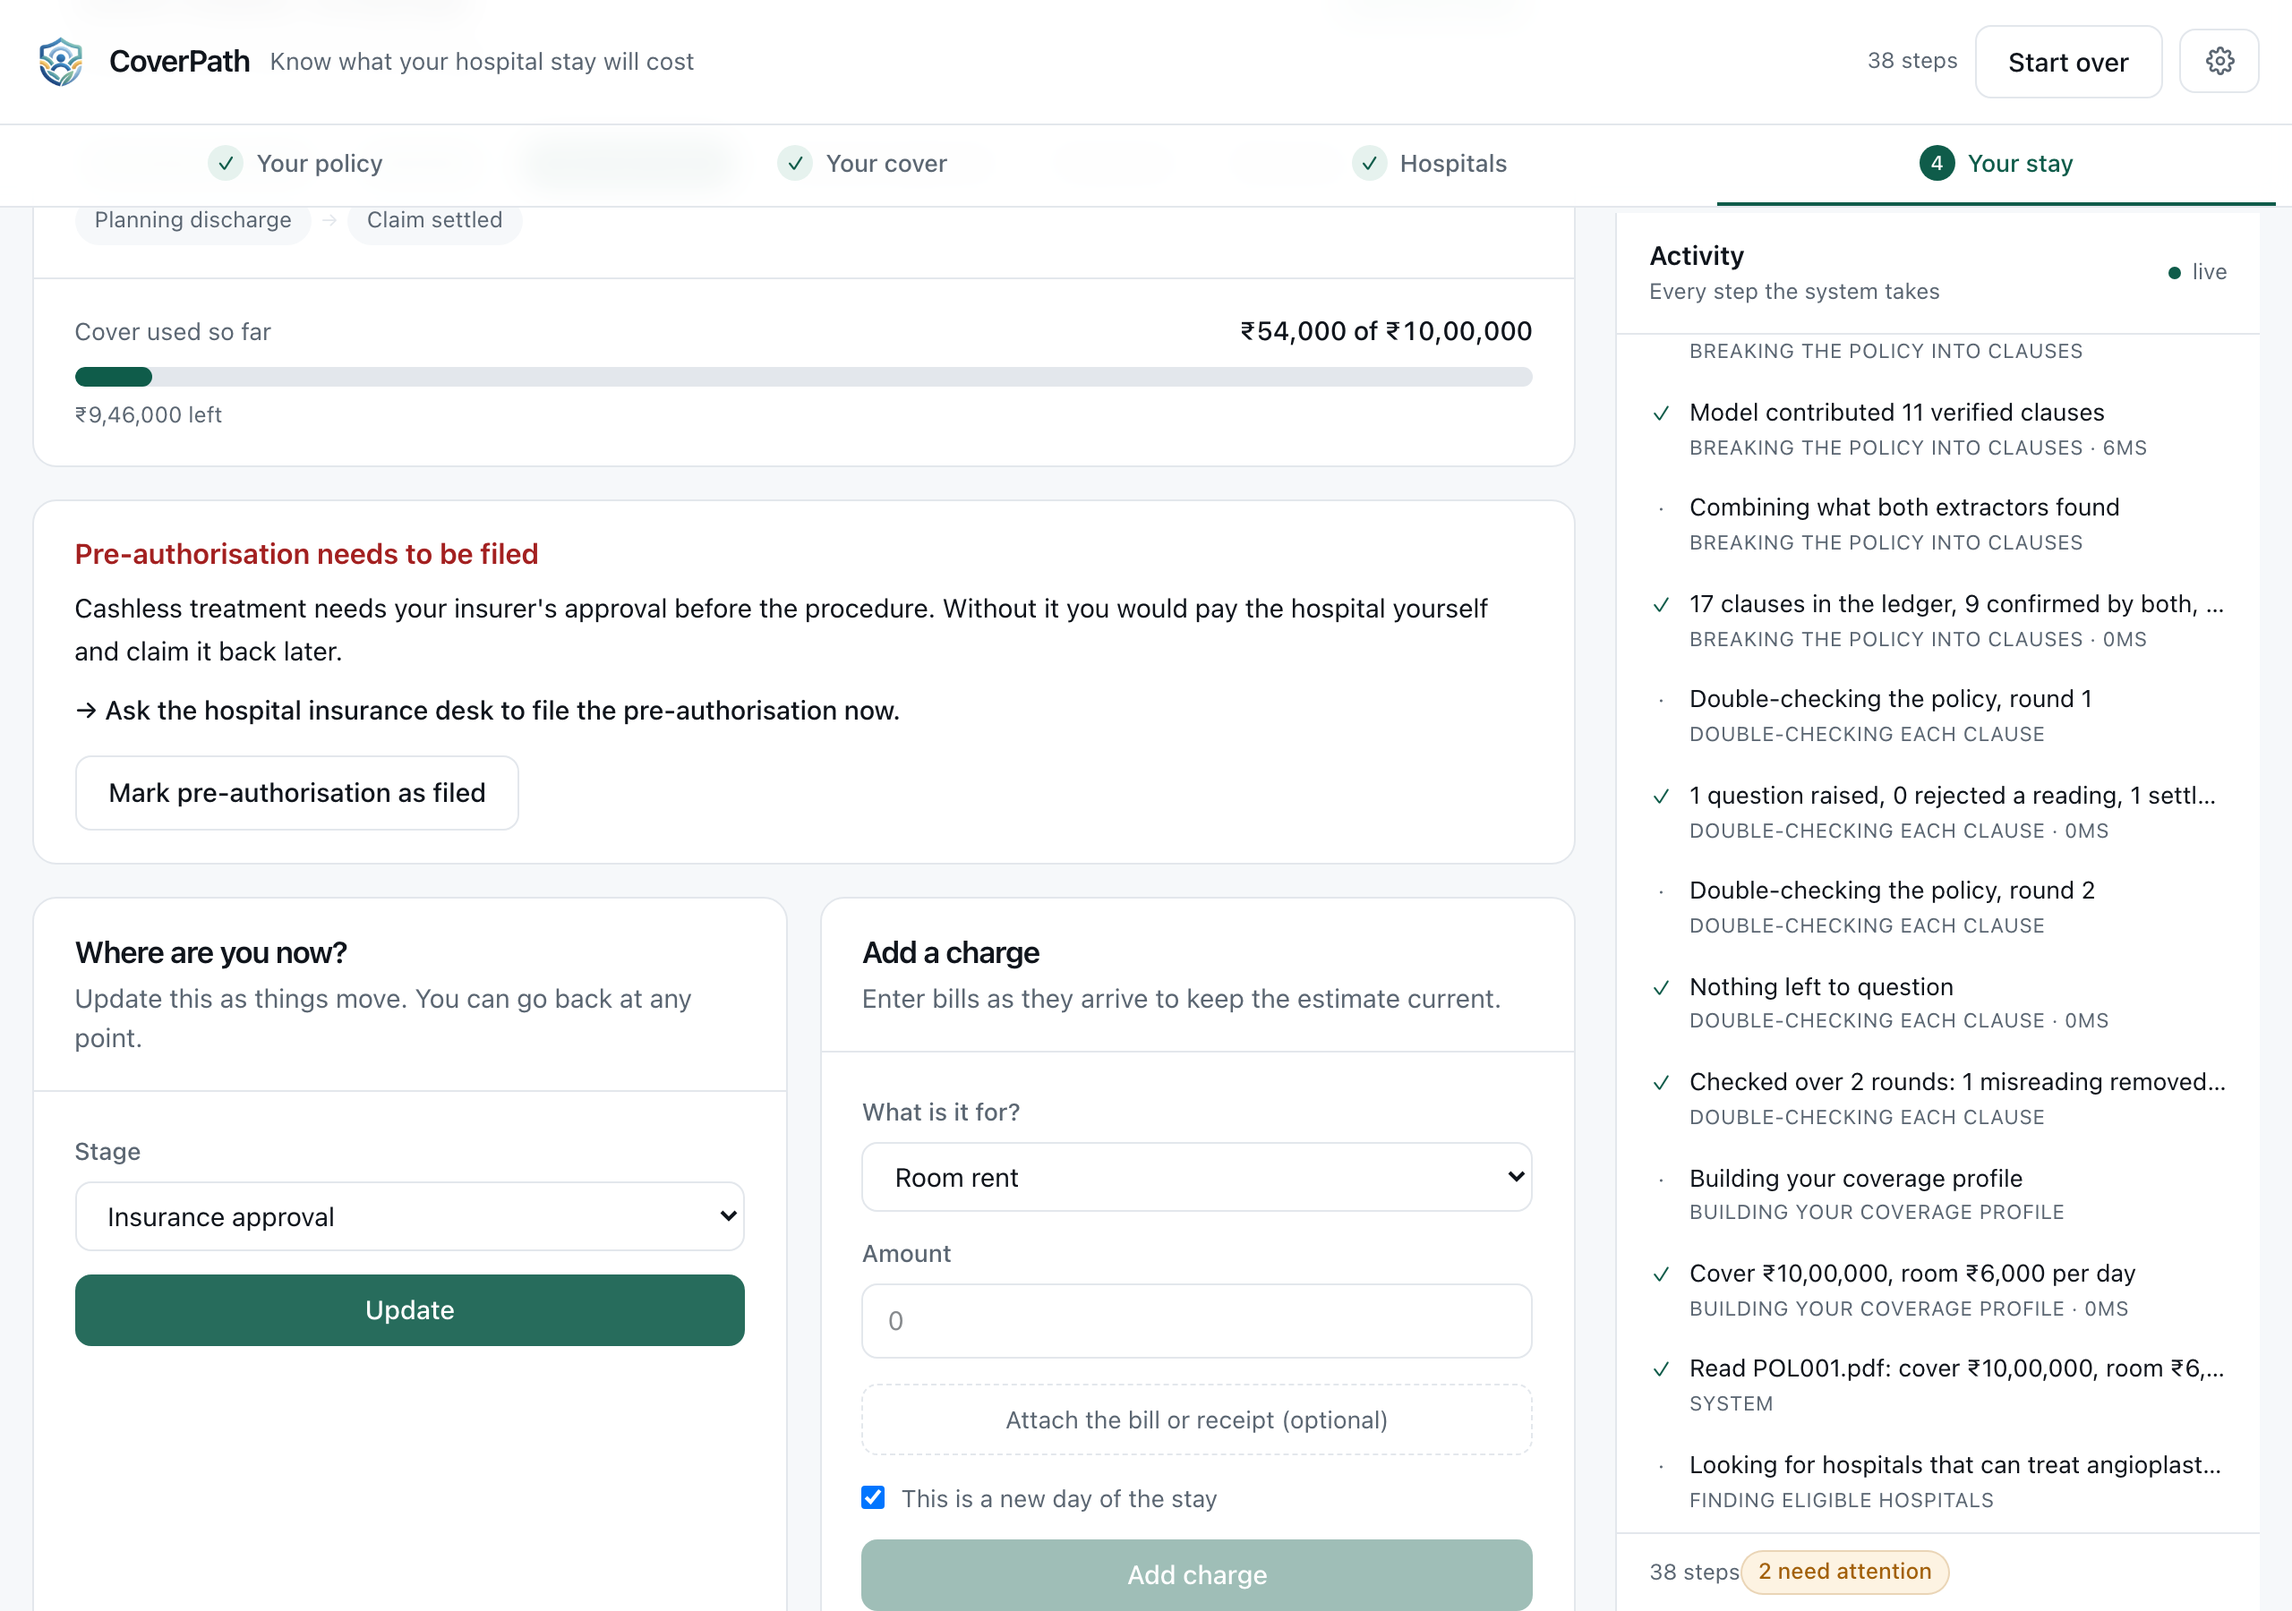
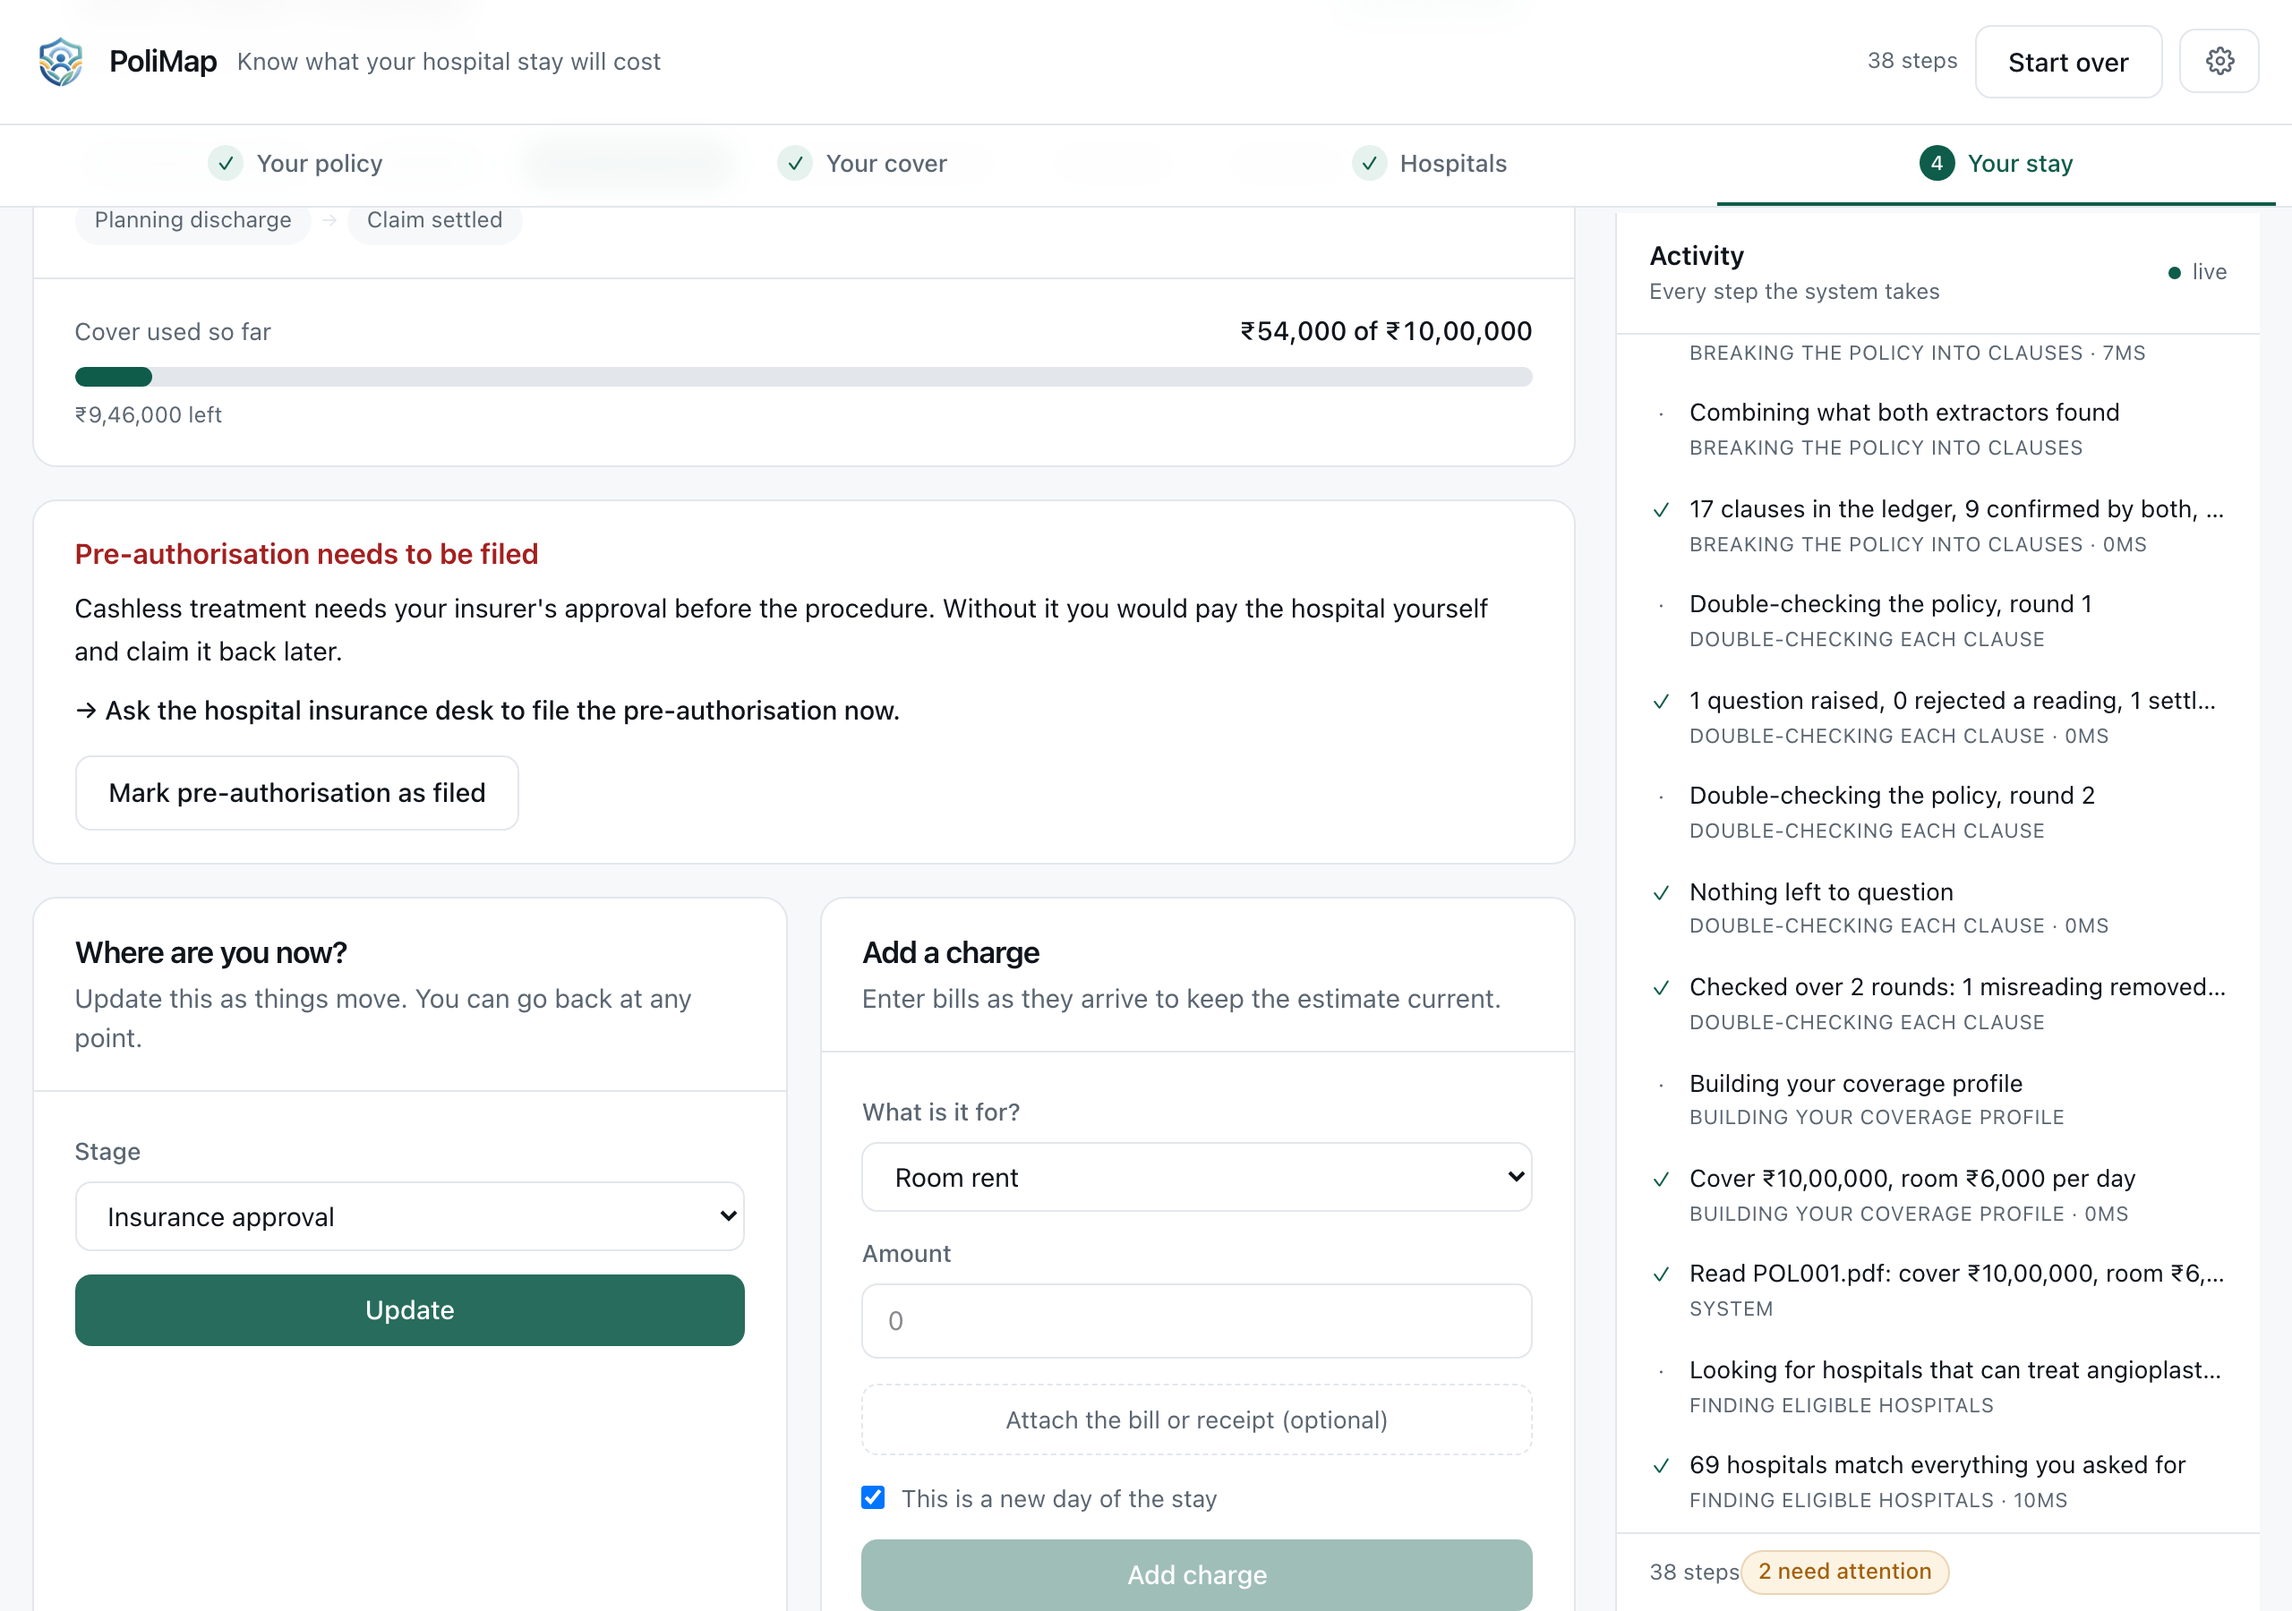
Rename the project to PoliMap
Product name, API title, page title, manifest, Docker image tag, the settings
key held in local storage, the session database filename, and the provider
environment variable. Screenshots in docs re-taken so the header in them reads
the new name.

The working directory is now polimap/ as well.

diff --git a/frontend/index.html b/frontend/index.html
@@ -3,7 +3,7 @@
   <head>
     <meta charset="UTF-8" />
     <meta name="viewport" content="width=device-width, initial-scale=1.0" />
-    <title>CoverPath: know what your hospital stay will cost</title>
+    <title>PoliMap: know what your hospital stay will cost</title>
     <meta name="description" content="Insurance-aware hospital decision support for patients and caregivers in India." />
 
     <!-- The mark is transparent, so it sits on whatever the browser or phone
@@ -27,7 +27,7 @@
     <script>
       (function () {
         try {
-          var saved = JSON.parse(localStorage.getItem('coverpath.settings') || '{}')
+          var saved = JSON.parse(localStorage.getItem('polimap.settings') || '{}')
           var theme = saved.theme || 'system'
           var dark =
             theme === 'dark' ||

diff --git a/frontend/src/App.jsx b/frontend/src/App.jsx
@@ -312,7 +312,7 @@ function Shell({
               height="28"
               className="h-7 w-7 shrink-0"
             />
-            <span className="text-[0.9375rem] font-semibold tracking-tight">CoverPath</span>
+            <span className="text-[0.9375rem] font-semibold tracking-tight">PoliMap</span>
             <span className="hidden text-[0.75rem] text-muted lg:inline">
               Know what your hospital stay will cost
             </span>

diff --git a/frontend/src/hooks/useSettings.js b/frontend/src/hooks/useSettings.js
@@ -13,7 +13,7 @@ import { useCallback, useEffect, useState } from 'react'
 
 // Also read by the boot script in index.html, which applies the theme before
 // the first paint. Change one and change the other.
-const KEY = 'coverpath.settings'
+const KEY = 'polimap.settings'
 
 export const DEFAULTS = {
   // "system" follows the operating system and changes with it.

diff --git a/backend/app/main.py b/backend/app/main.py
@@ -34,8 +34,8 @@ async def lifespan(app: FastAPI):
     bus.bind_loop(asyncio.get_running_loop())
 
     log.info(
-        "coverpath starting",
-        provider=settings.coverpath_provider.value,
+        "polimap starting",
+        provider=settings.polimap_provider.value,
         session_store=settings.session_store.value,
     )
 
@@ -56,7 +56,7 @@ async def lifespan(app: FastAPI):
     asyncio.create_task(_probe_models())
 
     yield
-    log.info("coverpath stopped")
+    log.info("polimap stopped")
 
 
 async def _probe_models() -> None:
@@ -75,7 +75,7 @@ async def _probe_models() -> None:
 
 
 app = FastAPI(
-    title="CoverPath",
+    title="PoliMap",
     description=(
         "Insurance-aware hospital decision support. " + DISCLAIMER
     ),
@@ -99,7 +99,7 @@ app.include_router(router)
 @app.get("/")
 def root() -> JSONResponse:
     return JSONResponse({
-        "name": "CoverPath",
+        "name": "PoliMap",
         "docs": "/docs",
         "health": "/api/health",
         "providers": "/api/health/providers",

diff --git a/backend/app/core/config.py b/backend/app/core/config.py
@@ -92,7 +92,7 @@ class Settings(BaseSettings):
     )
 
     # --- provider ---
-    coverpath_provider: Provider = Provider.AUTO
+    polimap_provider: Provider = Provider.AUTO
     ollama_api_key: str = ""
     ollama_host: str = "https://ollama.com"
     anthropic_api_key: str = ""
@@ -121,7 +121,7 @@ class Settings(BaseSettings):
     # group, which is what a deployed instance needs. "memory" is faster and is
     # what the tests use, since they want isolation rather than durability.
     session_store: SessionStore = SessionStore.SQLITE
-    session_db_path: Path = DATA_DIR / "coverpath.db"
+    session_db_path: Path = DATA_DIR / "polimap.db"
     session_ttl_minutes: int = Field(default=720, ge=5)
     session_limit: int = Field(default=500, ge=1)
 

diff --git a/backend/app/agents/registry.py b/backend/app/agents/registry.py
@@ -60,7 +60,7 @@ class ModelRegistry:
 
     def _build_providers(self) -> list[LLMProvider]:
         """Providers in preference order, honouring an explicit override."""
-        wanted = settings.coverpath_provider
+        wanted = settings.polimap_provider
         providers: list[LLMProvider] = []
 
         if wanted in (Provider.AUTO, Provider.OLLAMA) and settings.has_ollama:

diff --git a/datagen/build_all.py b/datagen/build_all.py
@@ -96,7 +96,7 @@ def report(
     add = lines.append
 
     add("=" * 68)
-    add("COVERPATH DATASET")
+    add("POLIMAP DATASET")
     add("=" * 68)
     add(f"procedures : {len(procedures)}")
     add(f"hospitals  : {len(hospitals)}")

diff --git a/docs/DEPLOYMENT.md b/docs/DEPLOYMENT.md
@@ -1,4 +1,4 @@
-# Deploying CoverPath
+# Deploying PoliMap
 
 Two pieces, deployed differently, for one reason.
 
@@ -25,8 +25,8 @@ work; the Dockerfile is not specific to any of them.
 ### Build and run locally first
 
 ```bash
-docker build -f backend/Dockerfile -t coverpath-api .
-docker run -p 8000:8000 --env-file backend/.env coverpath-api
+docker build -f backend/Dockerfile -t polimap-api .
+docker run -p 8000:8000 --env-file backend/.env polimap-api
 
 curl localhost:8000/api/health
 ```
@@ -82,7 +82,7 @@ Import the repository, then set:
 - **Root directory**: `frontend`
 - **Framework preset**: Vite (detected)
 - **Environment variable**: `VITE_API_BASE` = your API's origin, for example
-  `https://coverpath-api.onrender.com`, with no trailing slash
+  `https://polimap-api.onrender.com`, with no trailing slash
 
 `frontend/vercel.json` already handles the rest: the SPA rewrite so a deep link
 like `/#/hospitals` resolves, and long cache headers on the hashed assets.
@@ -97,8 +97,8 @@ redeploying, not just restarting.
 The two settings have to name each other:
 
 ```
-API:       CORS_ORIGINS=https://coverpath.vercel.app
-Frontend:  VITE_API_BASE=https://coverpath-api.onrender.com
+API:       CORS_ORIGINS=https://polimap.vercel.app
+Frontend:  VITE_API_BASE=https://polimap-api.onrender.com
 ```
 
 Both must be `https` if the site is. A browser refuses to let an https page call

diff --git a/README.md b/README.md
@@ -1,4 +1,4 @@
-# ![](docs/images/logo-inline.png) CoverPath
+# ![](docs/images/logo-inline.png) PoliMap
 
 **Insurance-aware hospital decision support for patients and caregivers in India.**
 
@@ -23,7 +23,7 @@ separate places, and the person holding the policy is the patient.
 
 A system that stops at "extract the fields, filter the hospitals, show a list"
 answers *where can I go*. It does not answer **what will this cost me**, which
-is the question that causes the financial stress. CoverPath answers that one, in
+is the question that causes the financial stress. PoliMap answers that one, in
 rupees, with the reasoning shown.
 
 ---
@@ -273,8 +273,8 @@ decides the shape of the deployment.
 
 ```bash
 # API
-docker build -f backend/Dockerfile -t coverpath-api .
-docker run -p 8000:8000 --env-file backend/.env coverpath-api
+docker build -f backend/Dockerfile -t polimap-api .
+docker run -p 8000:8000 --env-file backend/.env polimap-api
 
 # Frontend
 cd frontend && VITE_API_BASE=https://your-api-host npm run build
